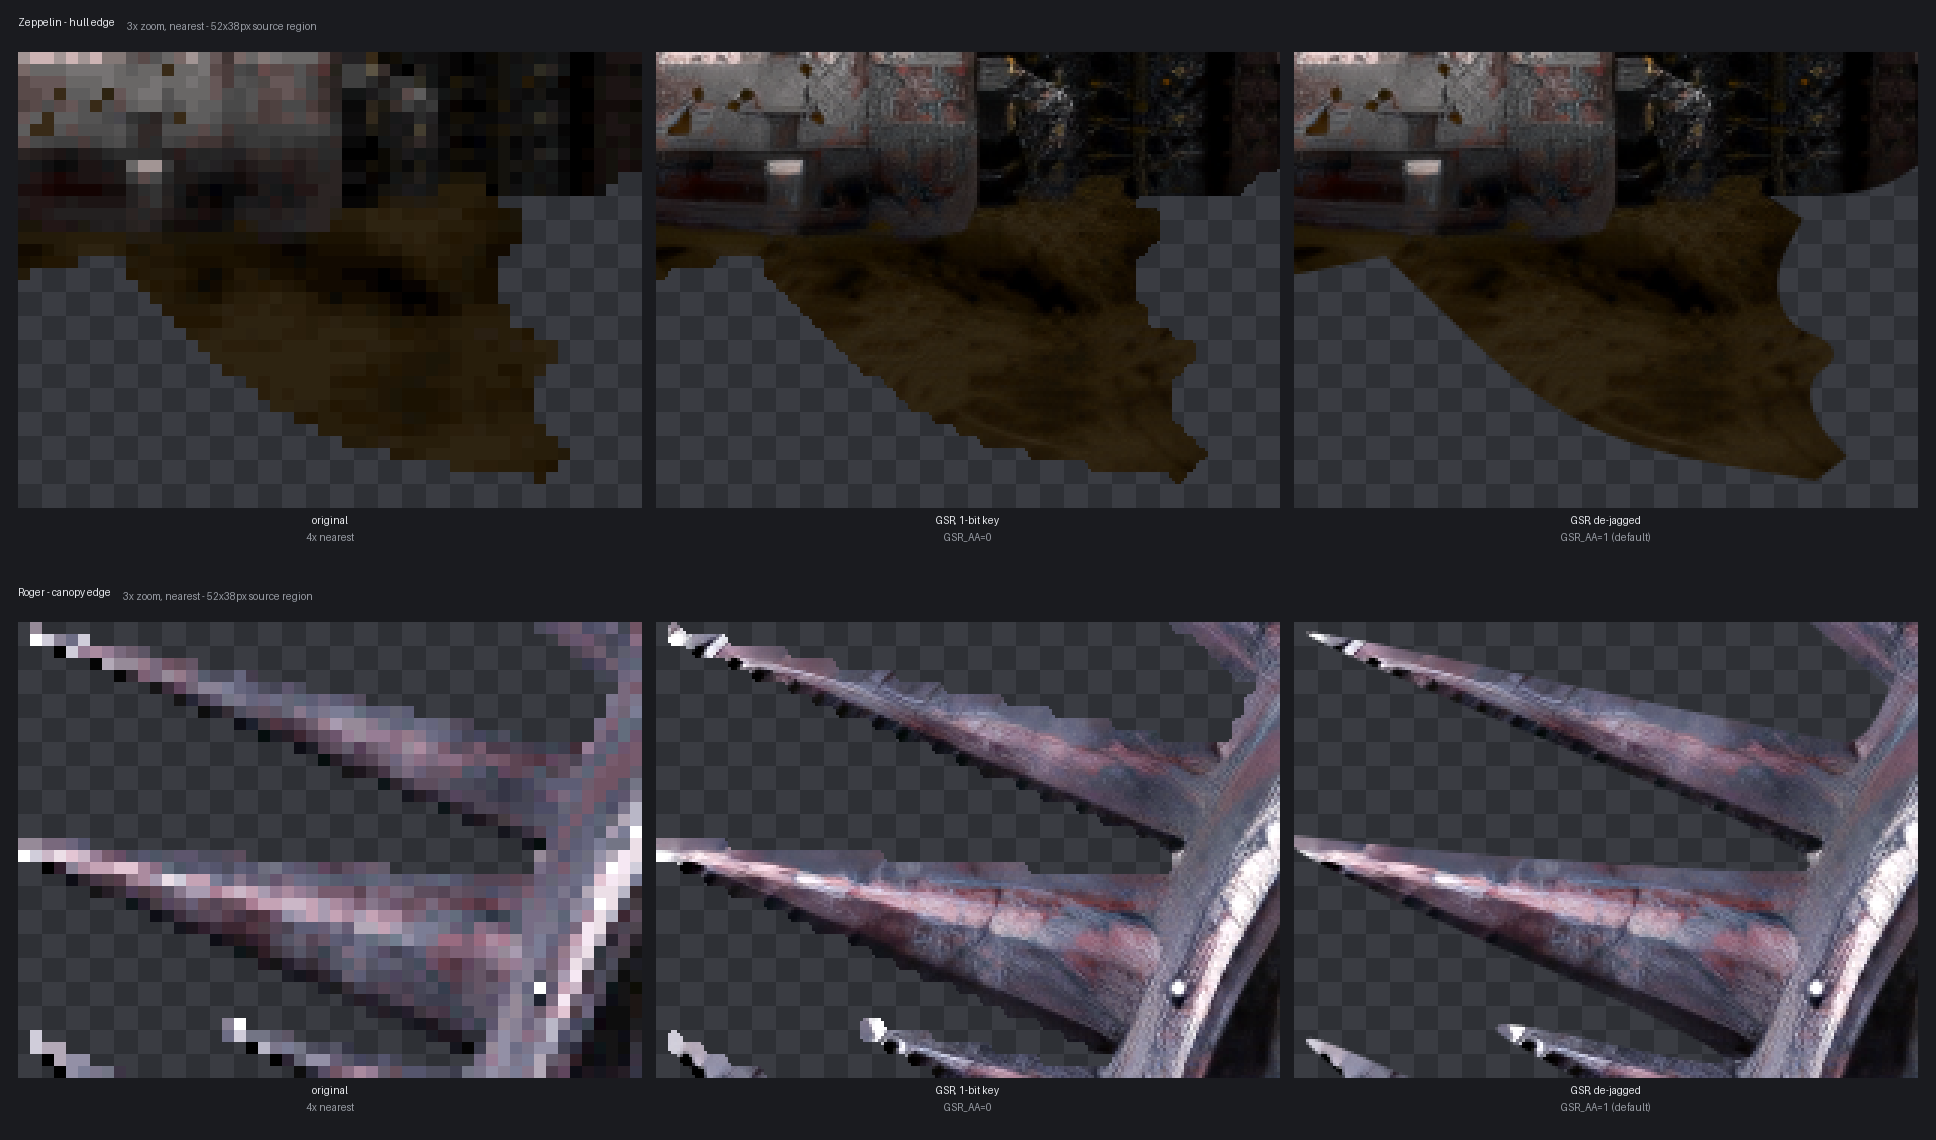
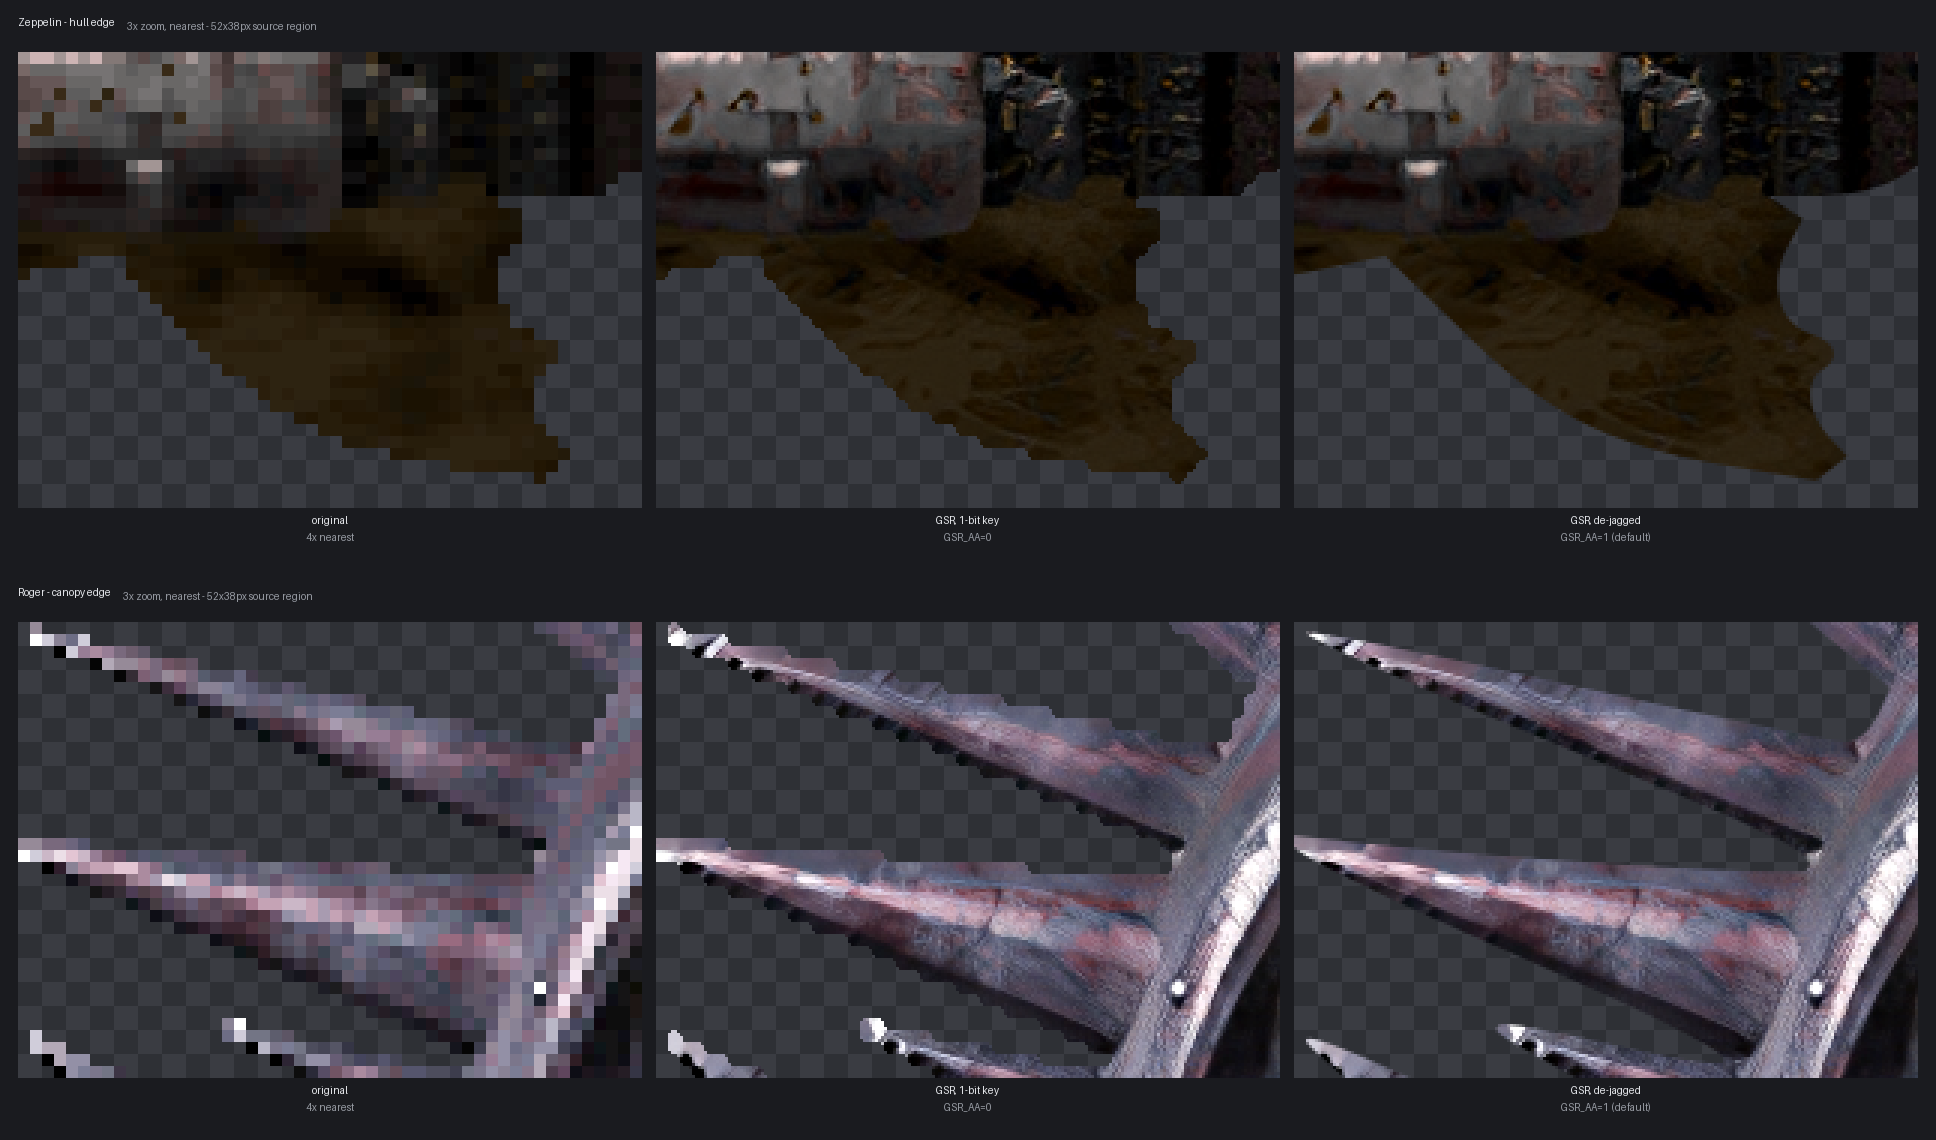
GSR: veto candidates that resynthesise dither as crosshatch scribble
The scale-matched (prescale-2) candidate 'preserves structure' on heavily
dithered art by repainting the dither as coherent wiry crosshatch over the
whole sprite -- water/bigsub and the level tilesets shipped looking scribbled
over. No downscale-based score can see it: the hatching is finer than 4px at
output scale, so it averages away in the box-down and retention/mae judge the
wiry candidate identical to a clean one.

The tell is at output resolution: on those images the prescaled candidate
carries 1.18-1.29x the plain candidate's pixel-scale gradient energy, while
everywhere prescale genuinely helps (sideex's square ring, goliath's rivets)
it sits at 0.88-1.09x. _pick now rejects a non-plain candidate whose
pixel-scale energy exceeds the plain baseline by GSR_HF_EXCESS (default
1.15): measured on the exemplars, bigsub and level_cannon/19_main flip to
the calm plain candidate, sideex/roger/dragon_zep keep the scale-matched
one. Both caches rebuilt from zero (36% prescaled, was ~50%), swept clean,
figures regenerated.

diff --git a/tools/gsr/build_hd_gsr.py b/tools/gsr/build_hd_gsr.py
@@ -493,6 +493,10 @@ class Upscaler:
         # How much extra low-frequency error (0-255 mae) a candidate may carry
         # before it is rejected regardless of how much structure it preserves.
         self.fidelity_margin = float(os.environ.get("GSR_FIDELITY_MARGIN", "1.5"))
+        # Veto a non-plain candidate whose pixel-scale gradient energy exceeds
+        # the plain one's by this factor: it is resynthesising dither as wiry
+        # crosshatch, which no downscale-based score can see (see _pick).
+        self.hf_excess = float(os.environ.get("GSR_HF_EXCESS", "1.15"))
         self.picked = [0, 0]                          # [plain, prescaled]
         # Skip the prescaled pass when the plain one already kept the structure.
         # Measured: prescale=2 costs ~80% of all GPU time (40 images: 17.9s plain
@@ -815,15 +819,32 @@ class Upscaler:
 
         Scored over all the image's cells at once, not per cell: the cells are
         consecutive animation frames, and switching approach mid-animation would
-        make the texture pop between frames."""
+        make the texture pop between frames.
+
+        One veto runs at OUTPUT resolution, because every downscale-based score
+        is blind there: wiry hatching finer than 4px at output scale averages
+        away in the box-down, so retention/mae judge it identical to a clean
+        result. On heavily dithered art the prescaled pass "preserves structure"
+        by resynthesising the dither as coherent crosshatch scribble all over
+        the sprite (water/bigsub, level tilesets). Measured: those images show
+        the prescaled candidate carrying 1.18-1.29x the plain one's pixel-scale
+        gradient energy, while everything prescale genuinely helps (sideex's
+        square ring, goliath's rivets) sits at 0.88-1.09x. A candidate that far
+        above the plain baseline is inventing texture, not keeping it."""
         agg = []
         w = [s.shape[0] * s.shape[1] for s in srcs]
+        ge4 = []
         for cand in cands:
             sc = [self._score(s, o) for s, o in zip(srcs, cand)]
             agg.append((float(np.average([m for m, _ in sc], weights=w)),
                         float(np.average([r for _, r in sc], weights=w))))
+            ge4.append(float(np.average([grad_energy(o.astype(np.float32))
+                                         for o in cand], weights=w)))
         best_mae = min(m for m, _ in agg)
-        ok = [i for i, (m, _) in enumerate(agg) if m <= best_mae + self.fidelity_margin]
+        ok = [i for i, (m, _) in enumerate(agg)
+              if m <= best_mae + self.fidelity_margin
+              and not (i > 0 and ge4[i] > ge4[0] * self.hf_excess)]
+        ok = ok or [0]
         return min(ok, key=lambda i: abs(agg[i][1] - 1.0))
 
     def _needs_prescale(self, srcs, plain):

diff --git a/README.md b/README.md
@@ -289,7 +289,12 @@ sides carry the same bias, but the absolute numbers understate small sprites.
   Both candidates (plain and scale-matched) are generated and the better one is kept for each
   image, because scale matching is a large win on detailed art but a small loss on smooth
   glow/flare sprites where there was no fine structure at risk. The choice is made by
-  measurement — no classifier, no per-object models, no seams. `tools/gsr/lab.py` renders any
+  measurement — no classifier, no per-object models, no seams. One veto runs at output
+  resolution, where downscale-based scores are blind: on heavily dithered art the
+  scale-matched pass "preserves structure" by resynthesising the dither as wiry crosshatch
+  scribble (measured: 1.18–1.29× the plain candidate's pixel-scale gradient energy, vs
+  0.88–1.09× everywhere scale matching genuinely helps), so a candidate that far above the
+  plain baseline is rejected as inventing texture rather than keeping it. `tools/gsr/lab.py` renders any
   set of settings side by side with scores, and `tools/gsr/scan_detail.py` ranks the whole
   archive by how much fine structure survived.
 
